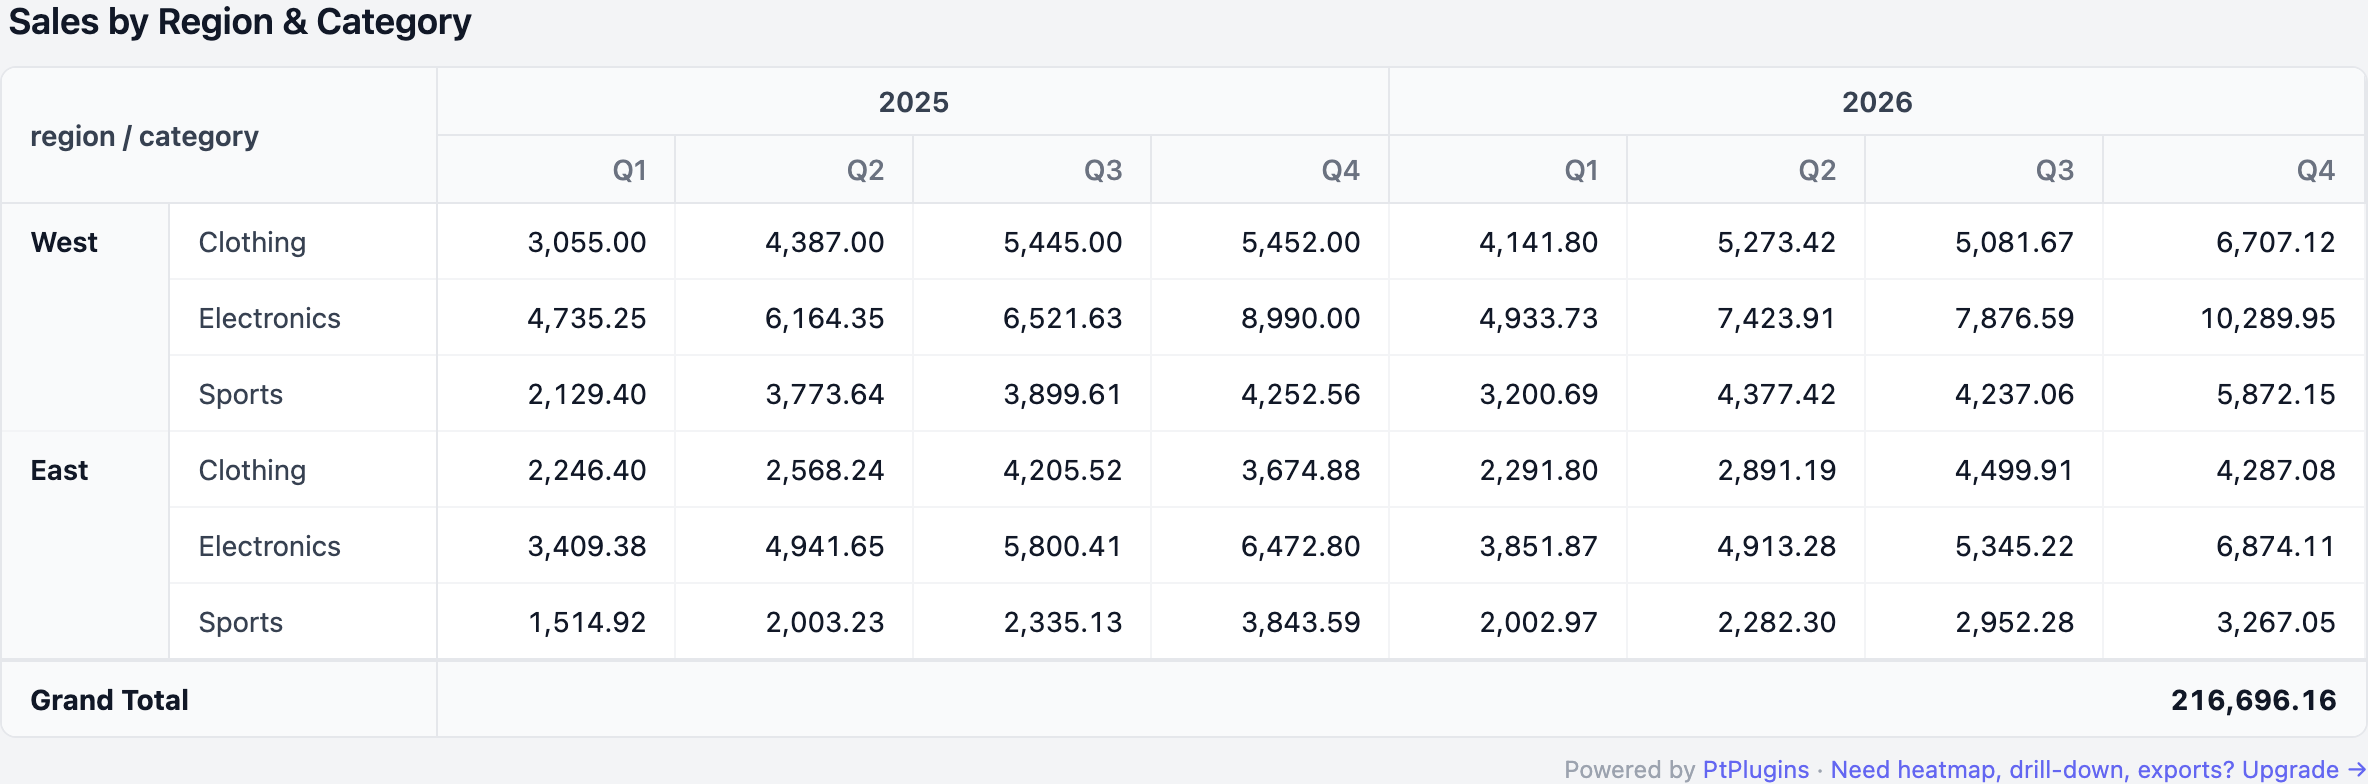
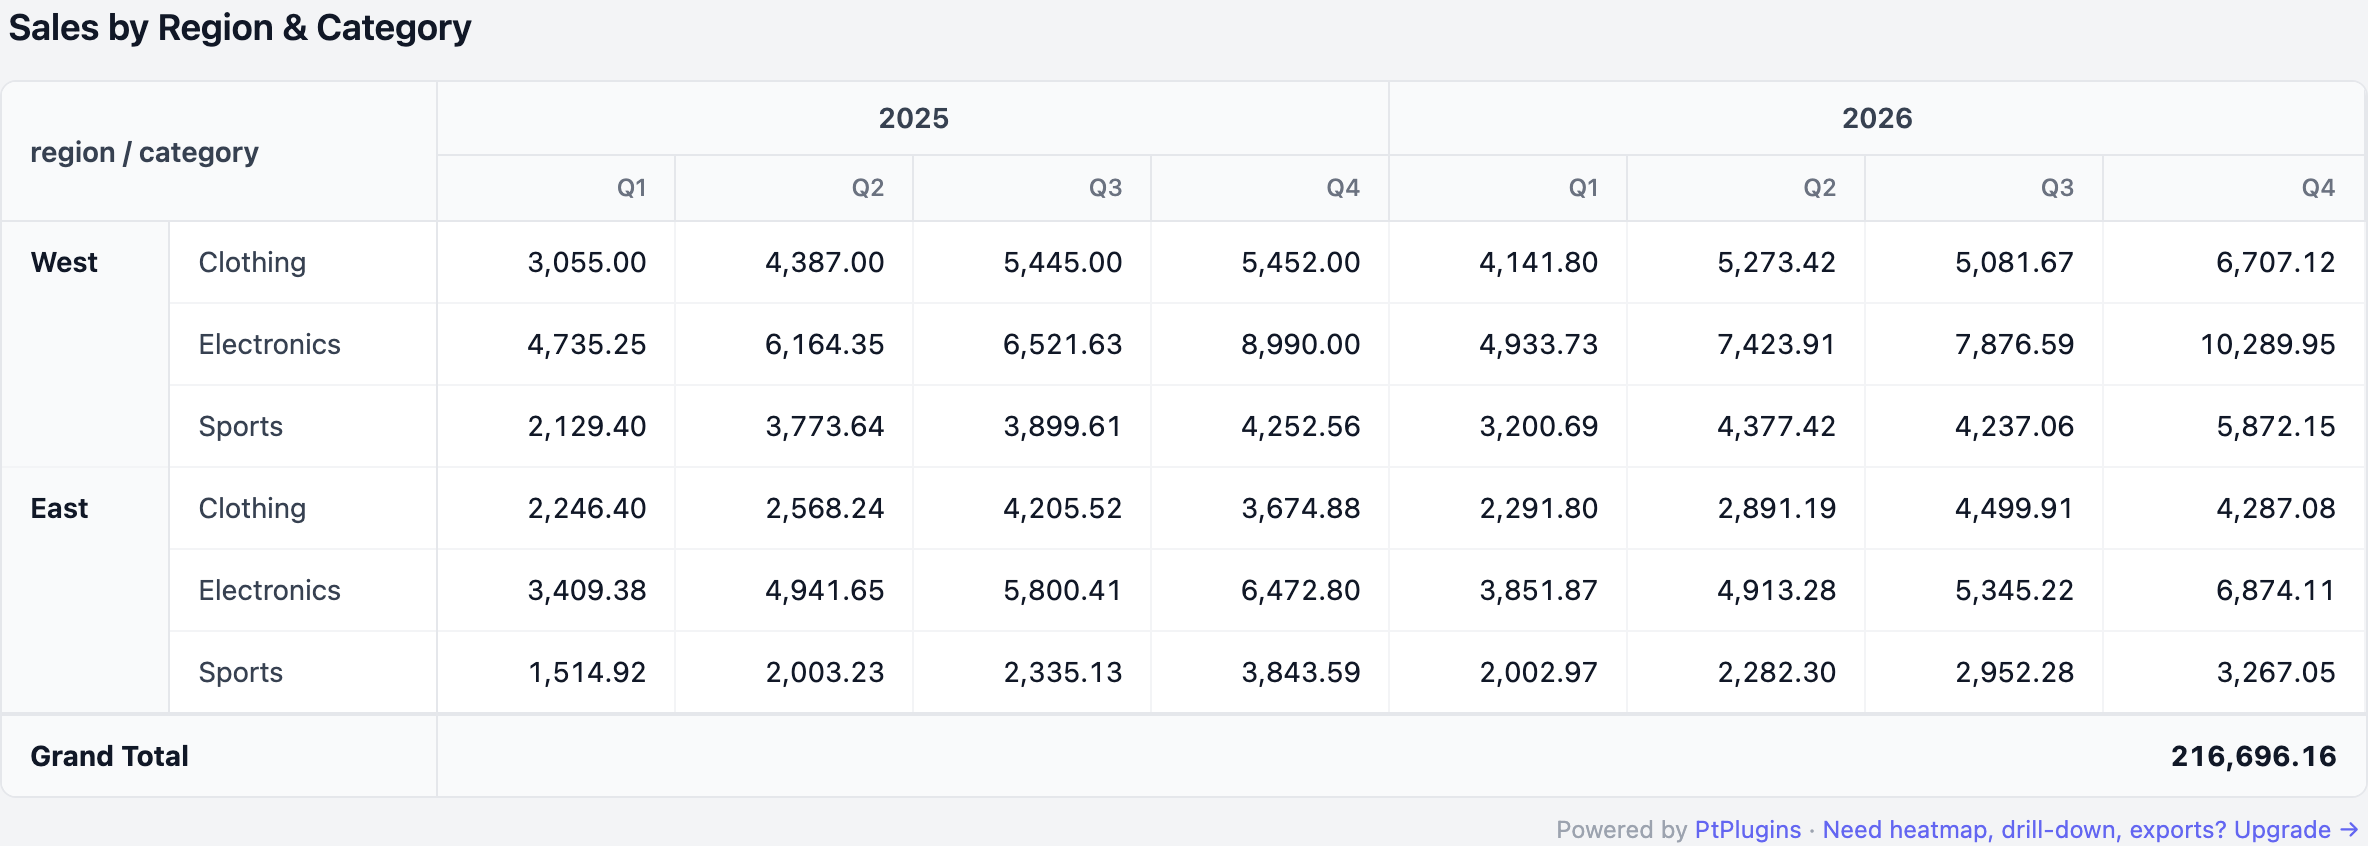
Release 1.1.0 — Tailwind classes (light+dark) + i18n (en)
- Replace inline styles with Tailwind utility classes; supports dark mode via
  the standard 'dark:' variants used across Filament admin panels.
- Add translation support via 'pivot-free::messages.*'. English bundled.
  Publish vendor translations: php artisan vendor:publish --tag=pivot-free-translations
- Component emptyText default changed from English literal to null so the
  translation key applies. Pass :emptyText='...' to override per-instance.

diff --git a/resources/views/components/pivot-table.blade.php b/resources/views/components/pivot-table.blade.php
@@ -7,7 +7,6 @@
     $isMultiRow = count($rowFields) > 1;
     $isMultiCol = count($colFields) > 1;
 
-    // Group leaf columns by first-dimension value (only when 2 col dims)
     $colGroups = [];
     if ($isMultiCol) {
         foreach ($colKeys as $colKey) {
@@ -18,8 +17,7 @@
         $colGroups = array_values($colGroups);
     }
 
-    // Compute row "groups" — for the leftmost row dimension we render a rowspan cell.
-    $rowGroupRunStart = []; // rowIndex => groupCount  (only at the first row of a group)
+    $rowGroupRunStart = [];
     if ($isMultiRow) {
         $current = null;
         $startIdx = 0;
@@ -46,46 +44,47 @@
 
     $fmt = fn ($v) => number_format((float) $v, 2);
     $hasData = ! empty($rowKeys) && ! empty($colKeys);
+    $emptyMessage = $emptyText ?? __('pivot-free::messages.empty');
 @endphp
 
-<div class="pivot-free-wrapper" style="font-family: ui-sans-serif, system-ui, -apple-system, 'Segoe UI', Roboto, sans-serif;">
+<div class="pivot-free-wrapper">
     @if ($title)
-        <h3 class="pivot-free-title" style="font-size: 1.125rem; font-weight: 600; color: #111827; margin: 0 0 0.75rem; padding: 0 0.25rem;">{{ $title }}</h3>
+        <h3 class="text-lg font-semibold text-gray-900 dark:text-white mb-3 px-1">{{ $title }}</h3>
     @endif
 
     @if (! $hasData)
-        <div class="pivot-free-empty" style="padding: 2rem; text-align: center; color: #6b7280; background: #f9fafb; border: 1px solid #e5e7eb; border-radius: 0.5rem;">
-            {{ $emptyText }}
+        <div class="p-8 text-center text-gray-500 dark:text-gray-400 bg-gray-50 dark:bg-gray-800/50 border border-gray-200 dark:border-gray-700 rounded-lg">
+            {{ $emptyMessage }}
         </div>
     @else
-        <div class="pivot-free-table-scroll" style="overflow-x: auto; border: 1px solid #e5e7eb; border-radius: 0.5rem; background: #ffffff;">
-            <table class="pivot-free-table" style="width: 100%; border-collapse: collapse; font-size: 0.875rem;">
-                <thead style="background: #f9fafb;">
+        <div class="overflow-x-auto bg-white dark:bg-gray-900 border border-gray-200 dark:border-gray-700 rounded-lg">
+            <table class="w-full text-sm border-collapse">
+                <thead class="bg-gray-50 dark:bg-gray-800/50">
                     @if ($isMultiCol)
                         <tr>
-                            <th colspan="{{ count($rowFields) }}" rowspan="2" style="padding: 0.625rem 0.875rem; text-align: left; font-weight: 600; color: #374151; border-bottom: 1px solid #e5e7eb; border-right: 1px solid #e5e7eb;">
+                            <th colspan="{{ count($rowFields) }}" rowspan="2" class="px-3.5 py-2.5 text-left text-sm font-semibold text-gray-700 dark:text-gray-200 border-b border-r border-gray-200 dark:border-gray-700">
                                 {{ implode(' / ', $rowFields) }}
                             </th>
                             @foreach ($colGroups as $group)
-                                <th colspan="{{ $group['count'] }}" style="padding: 0.5rem 0.875rem; text-align: center; font-weight: 600; color: #374151; border-bottom: 1px solid #e5e7eb; border-right: 1px solid #e5e7eb;">
+                                <th colspan="{{ $group['count'] }}" class="px-3.5 py-2 text-center text-sm font-semibold text-gray-700 dark:text-gray-200 border-b border-r border-gray-200 dark:border-gray-700">
                                     {{ $group['label'] }}
                                 </th>
                             @endforeach
                         </tr>
                         <tr>
                             @foreach ($colKeys as $colKey)
-                                <th style="padding: 0.5rem 0.875rem; text-align: right; font-weight: 500; color: #6b7280; border-bottom: 1px solid #e5e7eb; border-right: 1px solid #e5e7eb;">
+                                <th class="px-3.5 py-2 text-right text-xs font-medium text-gray-500 dark:text-gray-400 border-b border-r border-gray-200 dark:border-gray-700">
                                     {{ $colKey[1] }}
                                 </th>
                             @endforeach
                         </tr>
                     @else
                         <tr>
-                            <th colspan="{{ count($rowFields) }}" style="padding: 0.625rem 0.875rem; text-align: left; font-weight: 600; color: #374151; border-bottom: 1px solid #e5e7eb; border-right: 1px solid #e5e7eb;">
+                            <th colspan="{{ count($rowFields) }}" class="px-3.5 py-2.5 text-left text-sm font-semibold text-gray-700 dark:text-gray-200 border-b border-r border-gray-200 dark:border-gray-700">
                                 {{ implode(' / ', $rowFields) }}
                             </th>
                             @foreach ($colKeys as $colKey)
-                                <th style="padding: 0.625rem 0.875rem; text-align: right; font-weight: 600; color: #374151; border-bottom: 1px solid #e5e7eb; border-right: 1px solid #e5e7eb;">
+                                <th class="px-3.5 py-2.5 text-right text-sm font-semibold text-gray-700 dark:text-gray-200 border-b border-r border-gray-200 dark:border-gray-700">
                                     {{ $colKey[0] }}
                                 </th>
                             @endforeach
@@ -94,18 +93,18 @@
                 </thead>
                 <tbody>
                     @foreach ($rowKeys as $i => $rowKey)
-                        <tr style="border-top: 1px solid #f3f4f6;">
+                        <tr class="border-t border-gray-100 dark:border-gray-800">
                             @if ($isMultiRow)
                                 @if (isset($rowGroupRunStart[$i]))
-                                    <td rowspan="{{ $rowGroupRunStart[$i] }}" style="padding: 0.625rem 0.875rem; font-weight: 600; color: #111827; background: #f9fafb; vertical-align: top; border-right: 1px solid #e5e7eb;">
+                                    <td rowspan="{{ $rowGroupRunStart[$i] }}" class="px-3.5 py-2.5 font-semibold text-gray-900 dark:text-white bg-gray-50 dark:bg-gray-800/50 align-top border-r border-gray-200 dark:border-gray-700">
                                         {{ $rowKey[0] }}
                                     </td>
                                 @endif
-                                <td style="padding: 0.625rem 0.875rem; color: #374151; border-right: 1px solid #e5e7eb;">
+                                <td class="px-3.5 py-2.5 text-gray-700 dark:text-gray-300 border-r border-gray-200 dark:border-gray-700">
                                     {{ $rowKey[1] }}
                                 </td>
                             @else
-                                <td style="padding: 0.625rem 0.875rem; font-weight: 500; color: #111827; border-right: 1px solid #e5e7eb;">
+                                <td class="px-3.5 py-2.5 font-medium text-gray-900 dark:text-white border-r border-gray-200 dark:border-gray-700">
                                     {{ $rowKey[0] }}
                                 </td>
                             @endif
@@ -116,19 +115,19 @@
                                     $ck = json_encode($colKey);
                                     $value = $cells[$rk][$ck] ?? null;
                                 @endphp
-                                <td style="padding: 0.625rem 0.875rem; text-align: right; color: {{ $value === null ? '#d1d5db' : '#111827' }}; font-variant-numeric: tabular-nums; border-right: 1px solid #f3f4f6;">
+                                <td class="px-3.5 py-2.5 text-right tabular-nums border-r border-gray-100 dark:border-gray-800 {{ $value === null ? 'text-gray-300 dark:text-gray-600' : 'text-gray-900 dark:text-gray-100' }}">
                                     {{ $value === null ? '—' : $fmt($value) }}
                                 </td>
                             @endforeach
                         </tr>
                     @endforeach
                 </tbody>
-                <tfoot style="background: #f9fafb;">
-                    <tr style="border-top: 2px solid #e5e7eb;">
-                        <td colspan="{{ count($rowFields) }}" style="padding: 0.625rem 0.875rem; font-weight: 700; color: #111827; border-right: 1px solid #e5e7eb;">
-                            Grand Total
+                <tfoot class="bg-gray-50 dark:bg-gray-800/50 border-t-2 border-gray-200 dark:border-gray-700">
+                    <tr>
+                        <td colspan="{{ count($rowFields) }}" class="px-3.5 py-2.5 font-bold text-gray-900 dark:text-white border-r border-gray-200 dark:border-gray-700">
+                            {{ __('pivot-free::messages.grand_total') }}
                         </td>
-                        <td colspan="{{ count($colKeys) }}" style="padding: 0.625rem 0.875rem; text-align: right; font-weight: 700; color: #111827; font-variant-numeric: tabular-nums;">
+                        <td colspan="{{ count($colKeys) }}" class="px-3.5 py-2.5 text-right font-bold text-gray-900 dark:text-white tabular-nums">
                             {{ $fmt($grandTotal) }}
                         </td>
                     </tr>
@@ -136,10 +135,12 @@
             </table>
         </div>
 
-        <div class="pivot-free-footer" style="margin-top: 0.5rem; font-size: 0.75rem; color: #9ca3af; text-align: right;">
-            Powered by <a href="https://ptplugins.com/filament-pivot-table" style="color: #6366f1; text-decoration: none;">PtPlugins</a>
+        <div class="mt-2 text-xs text-gray-400 dark:text-gray-500 text-right px-1">
+            {!! __('pivot-free::messages.powered_by', [
+                'brand' => '<a href="https://ptplugins.com/filament-pivot-table" class="text-indigo-500 dark:text-indigo-400 hover:text-indigo-600 dark:hover:text-indigo-300">PtPlugins</a>',
+            ]) !!}
             &middot;
-            <a href="https://ptplugins.com/filament-pivot-table" style="color: #6366f1; text-decoration: none;">Need heatmap, drill-down, exports? Upgrade →</a>
+            <a href="https://ptplugins.com/filament-pivot-table" class="text-indigo-500 dark:text-indigo-400 hover:text-indigo-600 dark:hover:text-indigo-300">{{ __('pivot-free::messages.upgrade_cta') }}</a>
         </div>
     @endif
 </div>

diff --git a/src/PivotTableFreeServiceProvider.php b/src/PivotTableFreeServiceProvider.php
@@ -10,6 +10,11 @@ class PivotTableFreeServiceProvider extends ServiceProvider
     public function boot(): void
     {
         $this->loadViewsFrom(__DIR__.'/../resources/views', 'pivot-free');
+        $this->loadTranslationsFrom(__DIR__.'/../resources/lang', 'pivot-free');
+
+        $this->publishes([
+            __DIR__.'/../resources/lang' => $this->app->langPath('vendor/pivot-free'),
+        ], 'pivot-free-translations');
 
         Blade::componentNamespace(
             'PtPlugins\\FilamentPivotTableFree\\View\\Components',

diff --git a/src/View/Components/PivotTable.php b/src/View/Components/PivotTable.php
@@ -37,7 +37,7 @@ class PivotTable extends Component
         ?array $columnFields = null,
         public string $valueField = 'value',
         public ?string $title = null,
-        public ?string $emptyText = 'No data to display.',
+        public ?string $emptyText = null,
     ) {
         if (($records === null) === ($query === null)) {
             throw new \InvalidArgumentException(

diff --git a/resources/lang/en/messages.php b/resources/lang/en/messages.php
@@ -1,0 +1,8 @@
+<?php
+
+return [
+    'grand_total' => 'Grand Total',
+    'empty' => 'No data to display.',
+    'powered_by' => 'Powered by :brand',
+    'upgrade_cta' => 'Need heatmap, drill-down, exports? Upgrade →',
+];

diff --git a/CHANGELOG.md b/CHANGELOG.md
@@ -4,6 +4,20 @@ All notable changes to `ptplugins/filament-pivot-table-free` are documented here
 
 The format is based on [Keep a Changelog](https://keepachangelog.com/en/1.1.0/) and this project adheres to [Semantic Versioning](https://semver.org/).
 
+## [1.1.0] - 2026-05-02
+
+### Added
+- Tailwind CSS classes (light + **dark mode** via `dark:` variants) — replaces inline styles. Matches Filament's own admin panel styling out of the box.
+- Translation support — labels (`grand_total`, `empty`, `powered_by`, `upgrade_cta`) load from `pivot-free::messages.*`. Publish vendor translations:
+  ```bash
+  php artisan vendor:publish --tag=pivot-free-translations
+  ```
+  English bundled. Override / add new locale by editing the published files at `lang/vendor/pivot-free/{locale}/messages.php`.
+
+### Changed
+- Component `emptyText` default changed from hardcoded English to `null` so the translation key applies. Pass `:emptyText="..."` to override per-instance.
+- Outer wrapper, table, headers, cells now use Tailwind utility classes. Requires Tailwind in your build (you already have it if you use Filament). No config publish needed.
+
 ## [1.0.0] - 2026-05-02
 
 ### Added

diff --git a/README.md b/README.md
@@ -77,9 +77,25 @@ If you'd rather pass a query, the component runs `->get()` for you:
 - Up to **2 row × 2 column** dimensions
 - **Sum** aggregation
 - Grand Total
-- Light theme, inline-styled (works without a Tailwind build)
+- **Light + dark theme** out of the box (Tailwind `dark:` variants)
+- **Translations** — English bundled, publish & override for any locale
 - Eloquent query OR Collection / array of records
 - Filament v3 + v4 + v5 compatible (single codebase)
+
+### Requirements
+
+- Laravel 10+ / 11+ / 12+
+- PHP 8.2+
+- **Tailwind CSS in your build** — every Filament project already has it. The component uses standard utility classes (`bg-white`, `dark:bg-gray-900`, `text-gray-900`, etc.) that ship with the default Tailwind preset.
+
+### Translations
+
+```bash
+# Publish English (and any other locales you add later)
+php artisan vendor:publish --tag=pivot-free-translations
+```
+
+Edit / add at `lang/vendor/pivot-free/{locale}/messages.php`.
 
 ## What's NOT included — that's where Pro comes in
 
